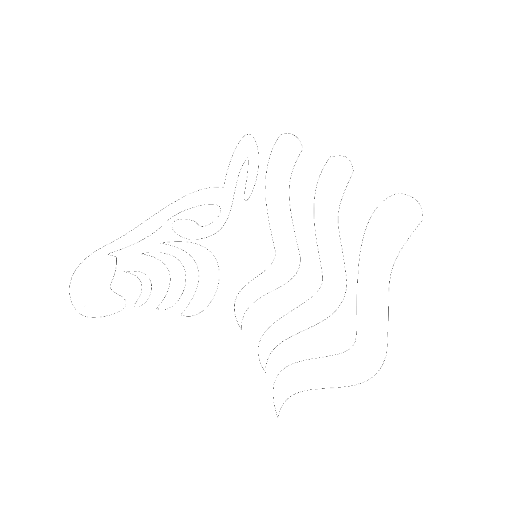
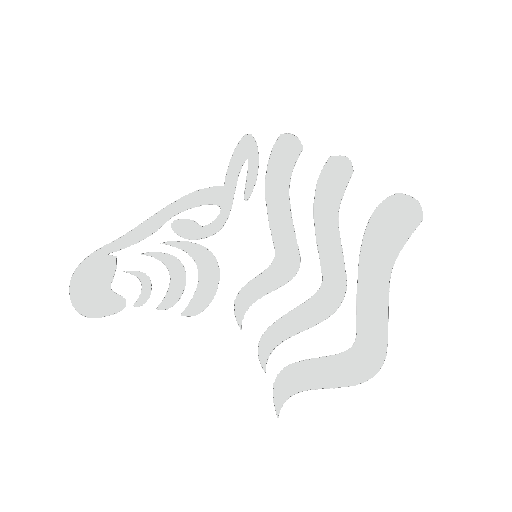
update color

Changed region(s): [[0.125, 0.25, 0.8438, 0.8125]]

diff --git a/contact.html b/contact.html
@@ -164,7 +164,7 @@
                   style="
                     display: flex;
                     align-items: center;
-                    color: #fff;
+                    color: #c7c7c7;
                     font-size: 0.3em;
                   "
                 ></div>
@@ -179,7 +179,7 @@
                   <div
                     id="song-name"
                     style="
-                      color: #fff;
+                      color: #c7c7c7;
                       font-size: 0.8em;
                       font-weight: bold;
                       display: inline-block;

diff --git a/design.html b/design.html
@@ -164,7 +164,7 @@
                   style="
                     display: flex;
                     align-items: center;
-                    color: #fff;
+                    color: #C7C7C7;
                     font-size: 0.3em;
                   "
                 ></div>
@@ -179,7 +179,7 @@
                   <div
                     id="song-name"
                     style="
-                      color: #fff;
+                      color: #C7C7C7;
                       font-size: 0.8em;
                       font-weight: bold;
                       display: inline-block;

diff --git a/index.html b/index.html
@@ -158,7 +158,7 @@
                   style="
                     display: flex;
                     align-items: center;
-                    color: #fff;
+                    color: #C7C7C7;
                     font-size: 0.3em;
                   "
                 ></div>
@@ -173,7 +173,7 @@
                   <div
                     id="song-name"
                     style="
-                      color: #fff;
+                      color: #C7C7C7;
                       font-size: 0.8em;
                       font-weight: bold;
                       display: inline-block;

diff --git a/resume.html b/resume.html
@@ -156,7 +156,7 @@
                 style="
                   display: flex;
                   align-items: center;
-                  color: #fff;
+                  color: #C7C7C7;
                   font-size: 0.3em;
                 "
               ></div>
@@ -171,7 +171,7 @@
                 <div
                   id="song-name"
                   style="
-                    color: #fff;
+                    color: #C7C7C7;
                     font-size: 0.8em;
                     font-weight: bold;
                     display: inline-block;
